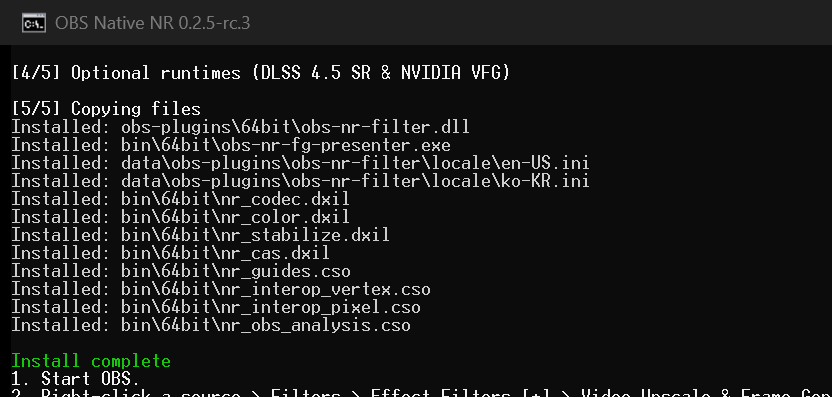
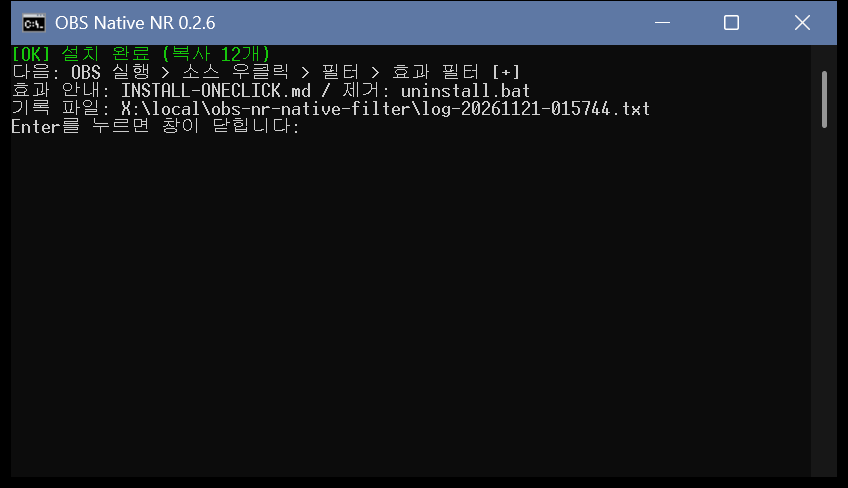
feat(installer): release one-question console in v0.2.6

diff --git a/docs/INSTALL-ONECLICK.md b/docs/INSTALL-ONECLICK.md
@@ -1,7 +1,9 @@
-# OBS 원클릭 설치 — 0.2.5
+# OBS 원클릭 설치 — 0.2.6
 
 1. `SHA256SUMS.txt`로 ZIP을 확인하고 **모두 압축 해제**합니다. OBS를 종료한 뒤 `install.bat`을 더블클릭합니다. 포터블 OBS가 목록에 없으면 `bin\64bit\obs64.exe`가 들어 있는 OBS 최상위 폴더를 지정합니다.
-2. DLSS/VFG가 필요하면 설치기가 제안하는 공식 NVIDIA 런타임을 선택합니다. Native NR은 별도 모델이 필요합니다. 준비한 `nvngx_dlssnr.dll`을 설치기에 지정하면 해시를 검증한 뒤 복사합니다. 자세한 준비 사항은 [설치 안내](INSTALL.md)를 참고하세요.
+2. 설치기는 현재 질문만 표시합니다. DLSS와 VFG는 각각 **Y 또는 Enter**로 설치하고 **N**으로 건너뜁니다. Native NR용 `nvngx_dlssnr.dll`이 있으면 모델 질문에서 지정합니다. 그냥 Enter를 누르면 모델만 건너뜁니다. 자세한 준비 사항은 [설치 안내](INSTALL.md)를 참고하세요.
+
+![격리 환경의 실제 DLSS 설치 질문](oneclick/dlss-prompt.png)
 
 ![격리 환경의 실제 설치 완료 콘솔](oneclick/installer.png)
 
@@ -11,6 +13,6 @@
 
 4. 효과가 실행 중인 OBS의 설치 폴더에서 런타임을 자동으로 찾습니다. 효과 설정에는 런타임 경로 입력이나 찾아보기 버튼이 없습니다. 이전 장면에 저장된 유효 경로는 유지하고, 파일이 사라졌으면 현재 설치 폴더를 확인합니다. 검증에 실패한 파일은 사용하지 않습니다.
 
-효과가 안 보이면 설치 완료 화면에서 선택한 OBS가 맞는지 확인하고 다시 시작하세요. DLSS 런타임을 사용할 수 없으면 이중선형/CAS로 계속 쓸 수 있습니다. Native NR이 우회되거나 VFG 창이 안 열리면 [설치 안내](INSTALL.md)의 해당 런타임과 OBS 로그를 확인하세요. 기존 장면에 저장된 독립 업스케일은 계속 작동하지만 새 효과 목록에는 없습니다. 제거는 OBS를 닫고 `uninstall.bat`을 실행합니다.
+효과가 안 보이면 설치 완료 화면에 나온 기록 파일에서 선택한 OBS 폴더를 확인하고 OBS를 다시 시작하세요. DLSS 런타임을 사용할 수 없으면 이중선형/CAS로 계속 쓸 수 있습니다. Native NR이 우회되거나 VFG 창이 안 열리면 [설치 안내](INSTALL.md)의 해당 런타임과 OBS 로그를 확인하세요. 기존 장면에 저장된 독립 업스케일은 계속 작동하지만 새 효과 목록에는 없습니다. 제거는 OBS를 닫고 `uninstall.bat`을 실행합니다.
 
-두 이미지는 동일한 UI의 0.2.5-rc.3 격리 환경에서 실제 창을 캡처했습니다. OBS에는 합성 시험 패턴만 표시됩니다.
+콘솔 화면은 0.2.6 격리 설치에서, 필터 화면은 같은 필터 UI의 0.2.5-rc.3 격리 OBS에서 캡처했습니다.

diff --git a/README.md b/README.md
@@ -21,6 +21,10 @@ Put it on a capture card, game capture, window or media source. No ReShade, no i
 > [!NOTE]
 > Community project, not affiliated with NVIDIA or the OBS Project. NVIDIA runtime DLLs are **not redistributed** inside this repository or release zip. `install.bat` guides you through placing `nvngx_dlssnr.dll` and can automatically download & verify the official NVIDIA-signed DLSS 4.5 SR and NVIDIA VFG runtimes from NVIDIA's servers.
 
+## What's new in 0.2.6
+
+- The Windows one-click installer shows one question at a time and keeps details in its log. See the [illustrated guide](docs/INSTALL-ONECLICK.md). The OBS filters and optional runtime checks are unchanged.
+
 ## What's new in 0.2.5
 
 - **Native NR remains denoising only.** Saved standalone upscale filters still load. Add new upscale settings in **Video Upscale & Frame Generation**.
@@ -58,7 +62,7 @@ The NR filter accepts the 310.8.0.0 compatibility build of `nvngx_dlssnr.dll` (1
 
 ## Install
 
-1. Download `obs-nr-native-filter-0.2.5-windows-x64.zip` and `SHA256SUMS.txt` from the [v0.2.5 release](https://github.com/grim-susemi/obs-nr-native-filter/releases/tag/v0.2.5).
+1. Download `obs-nr-native-filter-0.2.6-windows-x64.zip` and `SHA256SUMS.txt` from the [v0.2.6 release](https://github.com/grim-susemi/obs-nr-native-filter/releases/tag/v0.2.6).
 2. Close OBS completely (including tray icon).
 3. Extract the entire zip and double-click **`install.bat`**.
 4. Pick your language (`1` Korean, `2` English) and confirm the detected OBS folder.
@@ -113,7 +117,7 @@ OBS 소스에 NVIDIA DLSS NR(뉴럴 렌더링), 2패스 조합, Veyra 방식 안
 
 **설치 방법 (원클릭)**
 
-1. [v0.2.5 릴리스](https://github.com/grim-susemi/obs-nr-native-filter/releases/tag/v0.2.5)에서 `obs-nr-native-filter-0.2.5-windows-x64.zip`과 `SHA256SUMS.txt`를 내려받아 체크섬을 확인한 뒤 압축을 풉니다.
+1. [v0.2.6 릴리스](https://github.com/grim-susemi/obs-nr-native-filter/releases/tag/v0.2.6)에서 `obs-nr-native-filter-0.2.6-windows-x64.zip`과 `SHA256SUMS.txt`를 내려받아 체크섬을 확인한 뒤 압축을 풉니다.
 2. OBS를 완전히 끕니다.
 3. **`install.bat`** 을 더블클릭하고 Enter(한국어) → OBS 폴더 확인을 누릅니다.
 4. `nvngx_dlssnr.dll`(310.8.0.0 호환판, SHA-256 `e67dee20…c989a`)이 OBS에 없으면 창에 끌어다 놓고 Enter를 누릅니다. (RenoDX 디스코드: https://discord.gg/F6AUTeWJHM)
